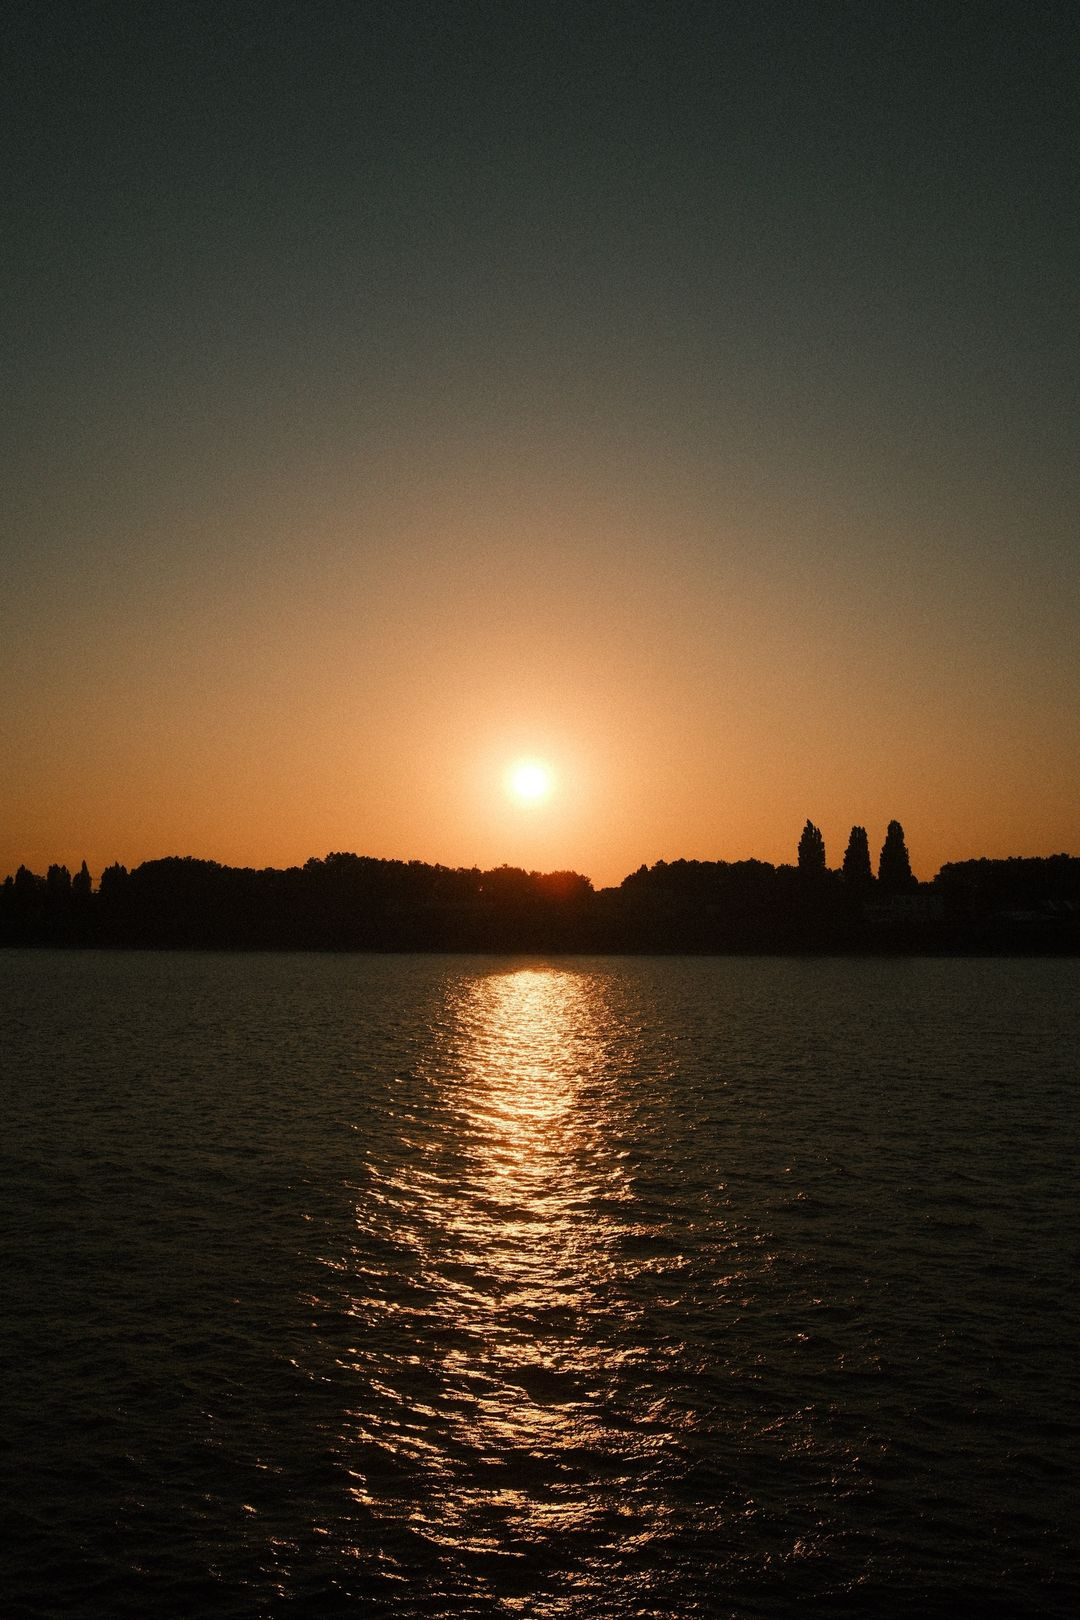
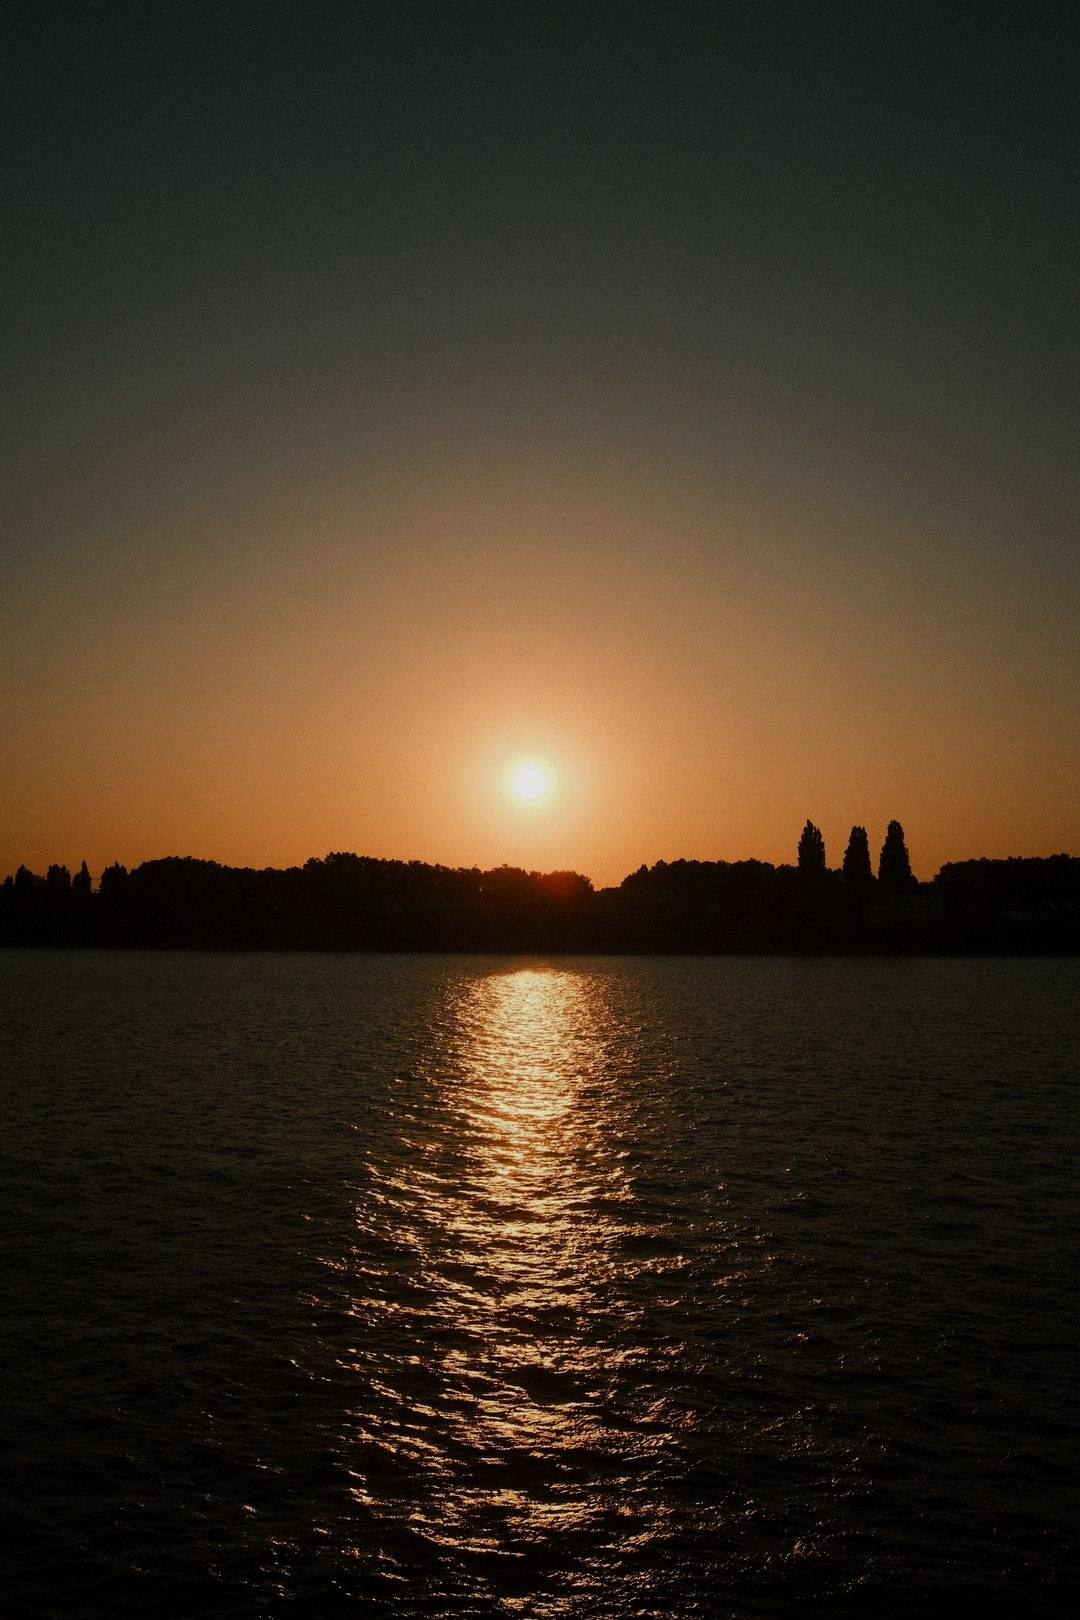
Darker demo photos (all except golden) for better typography contrast
Claude-Session: https://claude.ai/code/session_01Ef73ghEPdiSmcfWJMEJA7A

Changed region(s): [[0.3056, 0.4012, 0.6722, 0.5556], [0.3972, 0.5864, 0.5806, 0.8951], [0.4889, 0.9259, 0.55, 0.9568]]

diff --git a/public/index.html b/public/index.html
@@ -474,11 +474,11 @@ input[type=range]::-moz-range-thumb{width:28px;height:28px;border-radius:50%;bac
       <div class="bgRow" id="bgRow">
         <button class="bgBtn igToggle" id="igToggle" aria-label="Show Story layout" aria-pressed="true"><svg viewBox="0 0 24 24" fill="none" stroke="currentColor" stroke-width="1.9" stroke-linecap="round"><rect x="6" y="2.5" width="12" height="19" rx="3"/><path d="M8.5 5.5h7M8.5 18.5h4.5"/><circle cx="15.5" cy="18.5" r=".6" fill="currentColor"/></svg></button>
         <button class="bgBtn on" data-photo="golden" aria-label="Golden hour"><img src="/img/th-golden.jpg?v=2" alt=""></button>
-        <button class="bgBtn" data-photo="sunset" aria-label="Sunset"><img src="/img/th-sunset.jpg" alt=""></button>
-        <button class="bgBtn" data-photo="pier" aria-label="Breakwater"><img src="/img/th-pier.jpg" alt=""></button>
-        <button class="bgBtn" data-photo="xmas" aria-label="Christmas market"><img src="/img/th-xmas.jpg?v=2" alt=""></button>
-        <button class="bgBtn" data-photo="pool" aria-label="Pool"><img src="/img/th-pool.jpg" alt=""></button>
-        <button class="bgBtn" data-photo="agave" aria-label="Agave"><img src="/img/th-agave.jpg" alt=""></button>
+        <button class="bgBtn" data-photo="sunset" aria-label="Sunset"><img src="/img/th-sunset.jpg?v=3" alt=""></button>
+        <button class="bgBtn" data-photo="pier" aria-label="Breakwater"><img src="/img/th-pier.jpg?v=3" alt=""></button>
+        <button class="bgBtn" data-photo="xmas" aria-label="Christmas market"><img src="/img/th-xmas.jpg?v=3" alt=""></button>
+        <button class="bgBtn" data-photo="pool" aria-label="Pool"><img src="/img/th-pool.jpg?v=3" alt=""></button>
+        <button class="bgBtn" data-photo="agave" aria-label="Agave"><img src="/img/th-agave.jpg?v=3" alt=""></button>
         <button class="bgBtn bg-dark" data-bg="dark" aria-label="Dark"></button>
         <button class="bgBtn bg-light" data-bg="light" aria-label="Light"></button>
         <button class="bgBtn bg-check" data-bg="check" aria-label="Transparent"></button>
@@ -1199,7 +1199,7 @@ $("bgRow").addEventListener("click",e=>{
   const b=e.target.closest("[data-bg],[data-photo]");if(!b)return;
   document.querySelectorAll("#bgRow .bgBtn").forEach(x=>x.classList.toggle("on",x===b));
   const bg=$("stageBg");setCredit(b.dataset.photo);
-  if(b.dataset.photo){bg.className="bg";bg.style.background="";bg.style.backgroundImage=`url('/img/bg-${b.dataset.photo}.jpg?v=2')`;bg.style.backgroundSize="cover";bg.style.backgroundPosition="center"}
+  if(b.dataset.photo){bg.className="bg";bg.style.background="";bg.style.backgroundImage=`url('/img/bg-${b.dataset.photo}.jpg?v=3')`;bg.style.backgroundSize="cover";bg.style.backgroundPosition="center"}
   else{bg.style.backgroundImage="";bg.className="bg bg-"+b.dataset.bg}
 });
 $("photoIn").addEventListener("change",e=>{

diff --git a/public/sw.js b/public/sw.js
@@ -1,5 +1,5 @@
 // Typo Studio service worker: app werkt ook offline
-const VERSION = "typo-v51";
+const VERSION = "typo-v52";
 const SHELL = ["/", "/fonts/fonts.css", "/manifest.webmanifest", "/icons/icon-192.png", "/icons/icon-512.png", "/icons/apple-touch-icon.png",
   "/img/bg-sunset.jpg", "/img/bg-pier.jpg", "/img/th-sunset.jpg", "/img/th-pier.jpg", "/img/bg-xmas.jpg", "/img/th-xmas.jpg", "/img/bg-pool.jpg", "/img/th-pool.jpg", "/img/bg-golden.jpg", "/img/th-golden.jpg", "/img/bg-agave.jpg", "/img/th-agave.jpg"];
 
